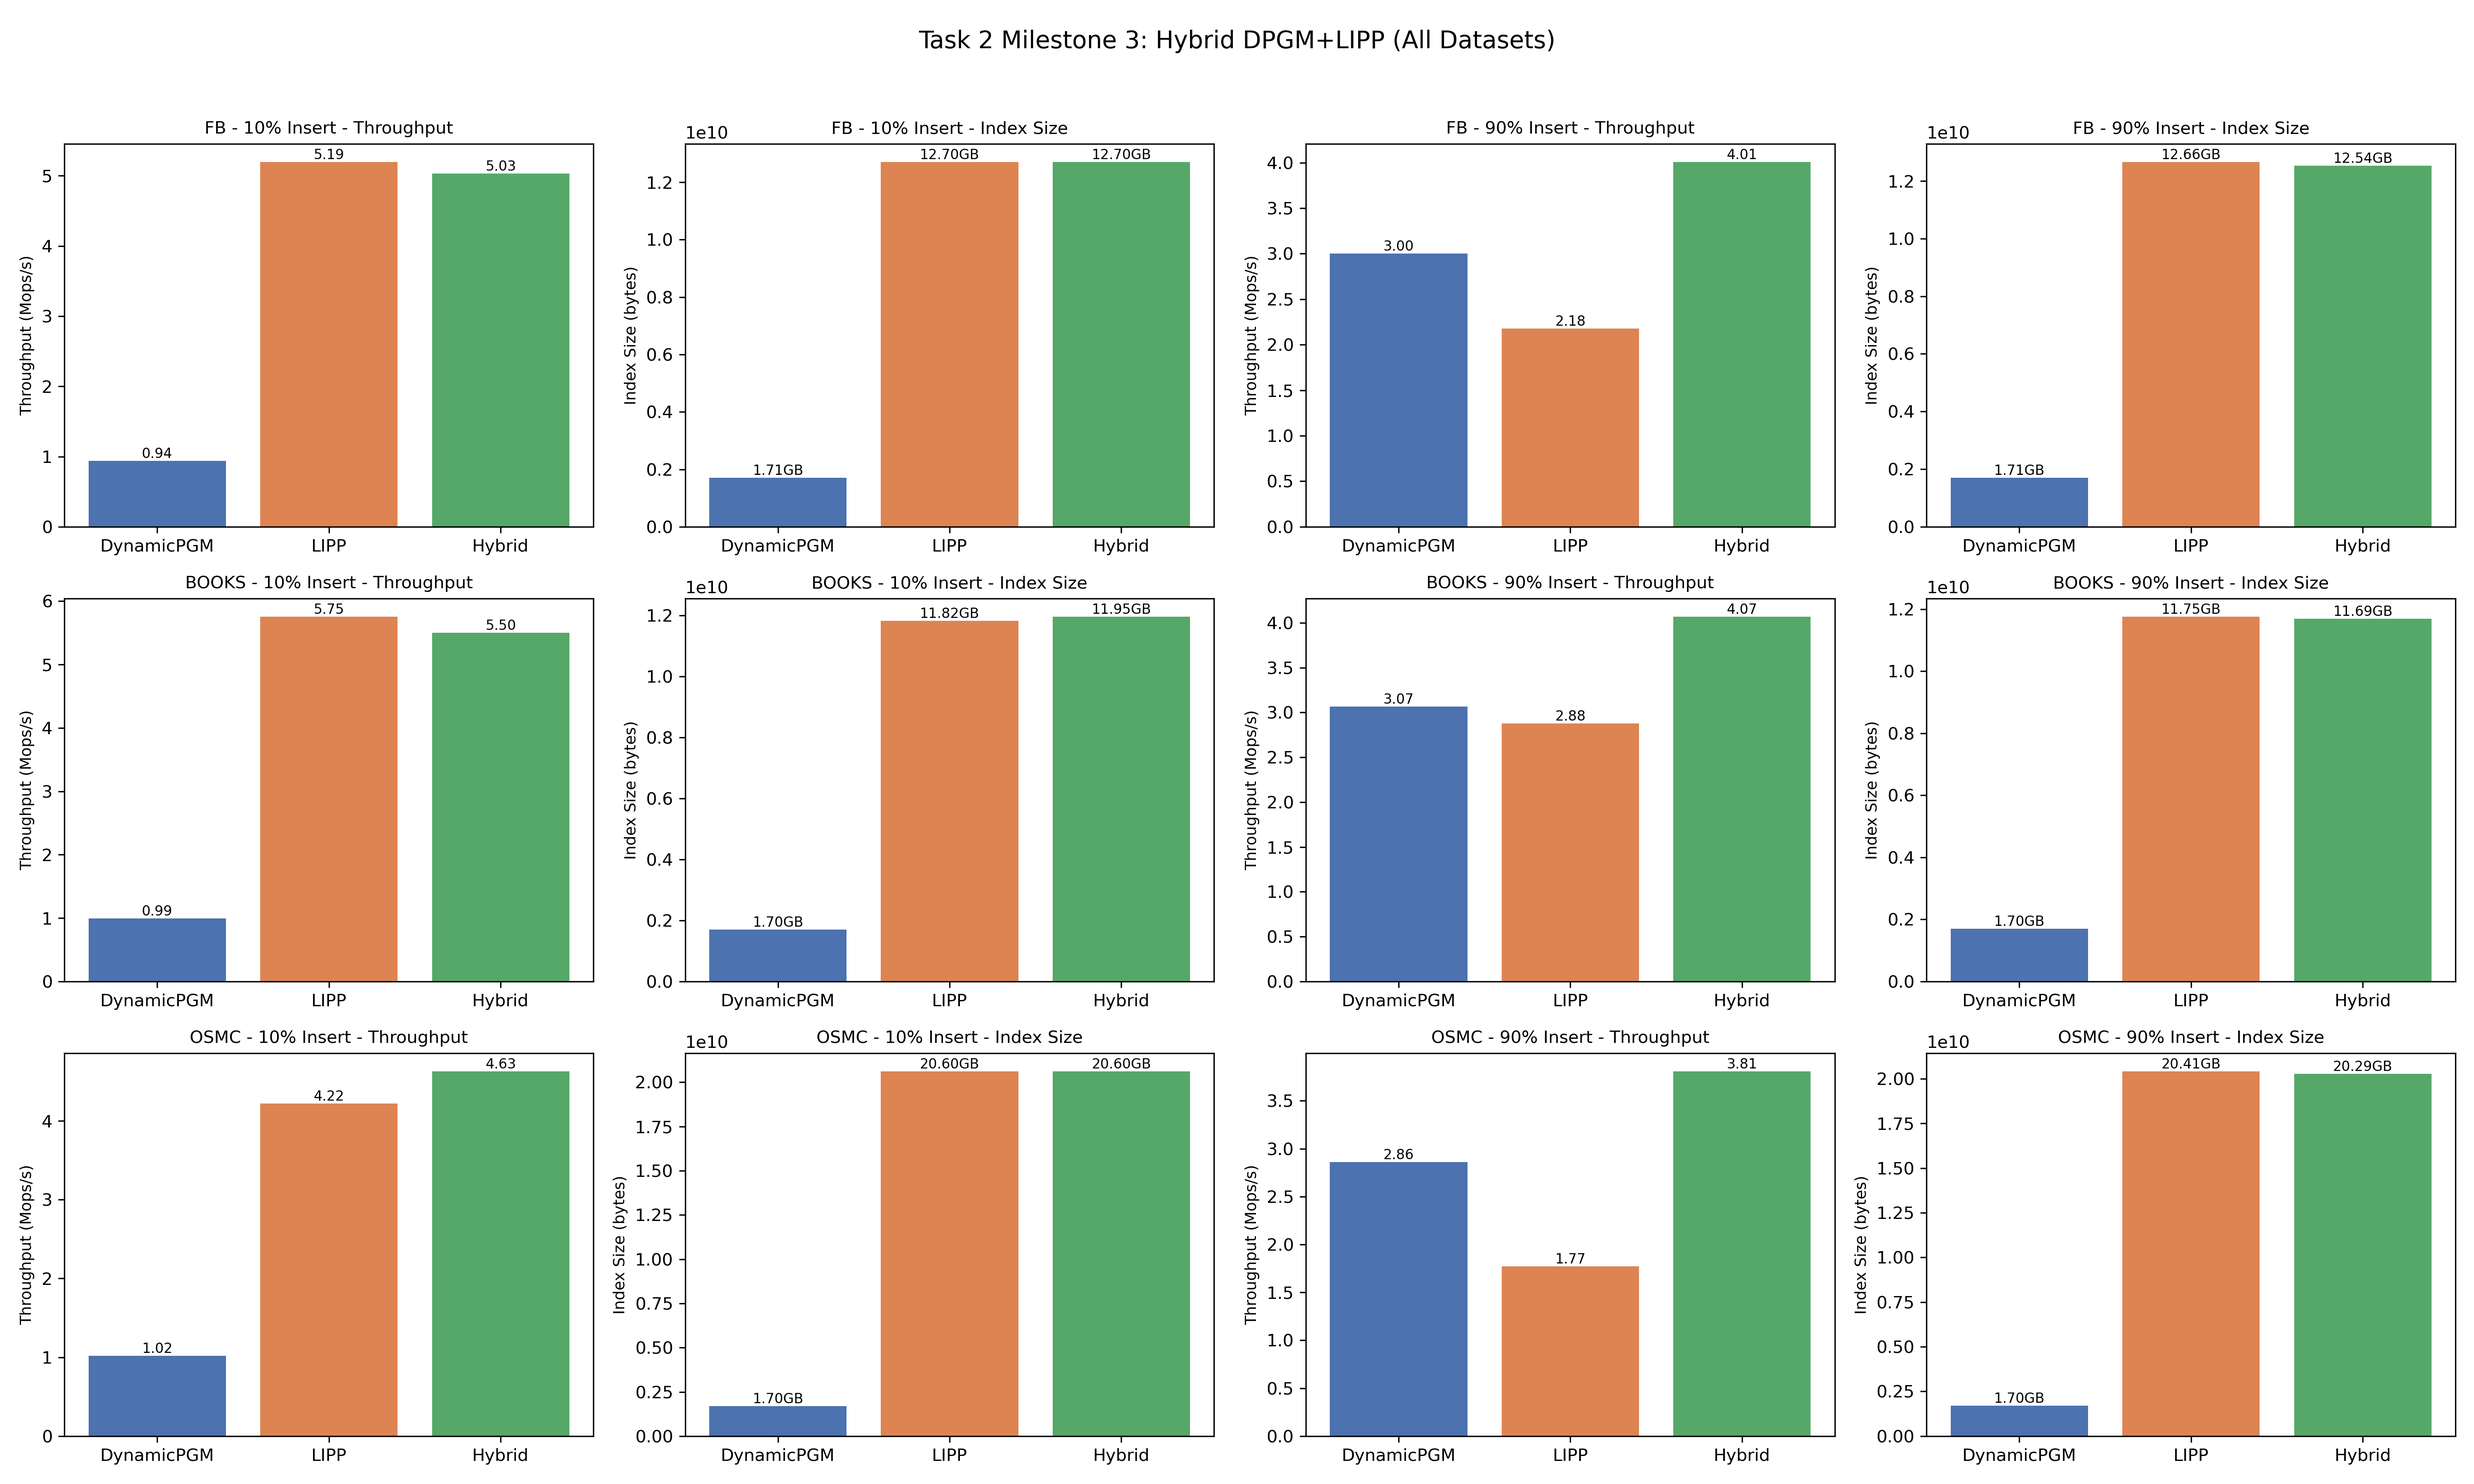
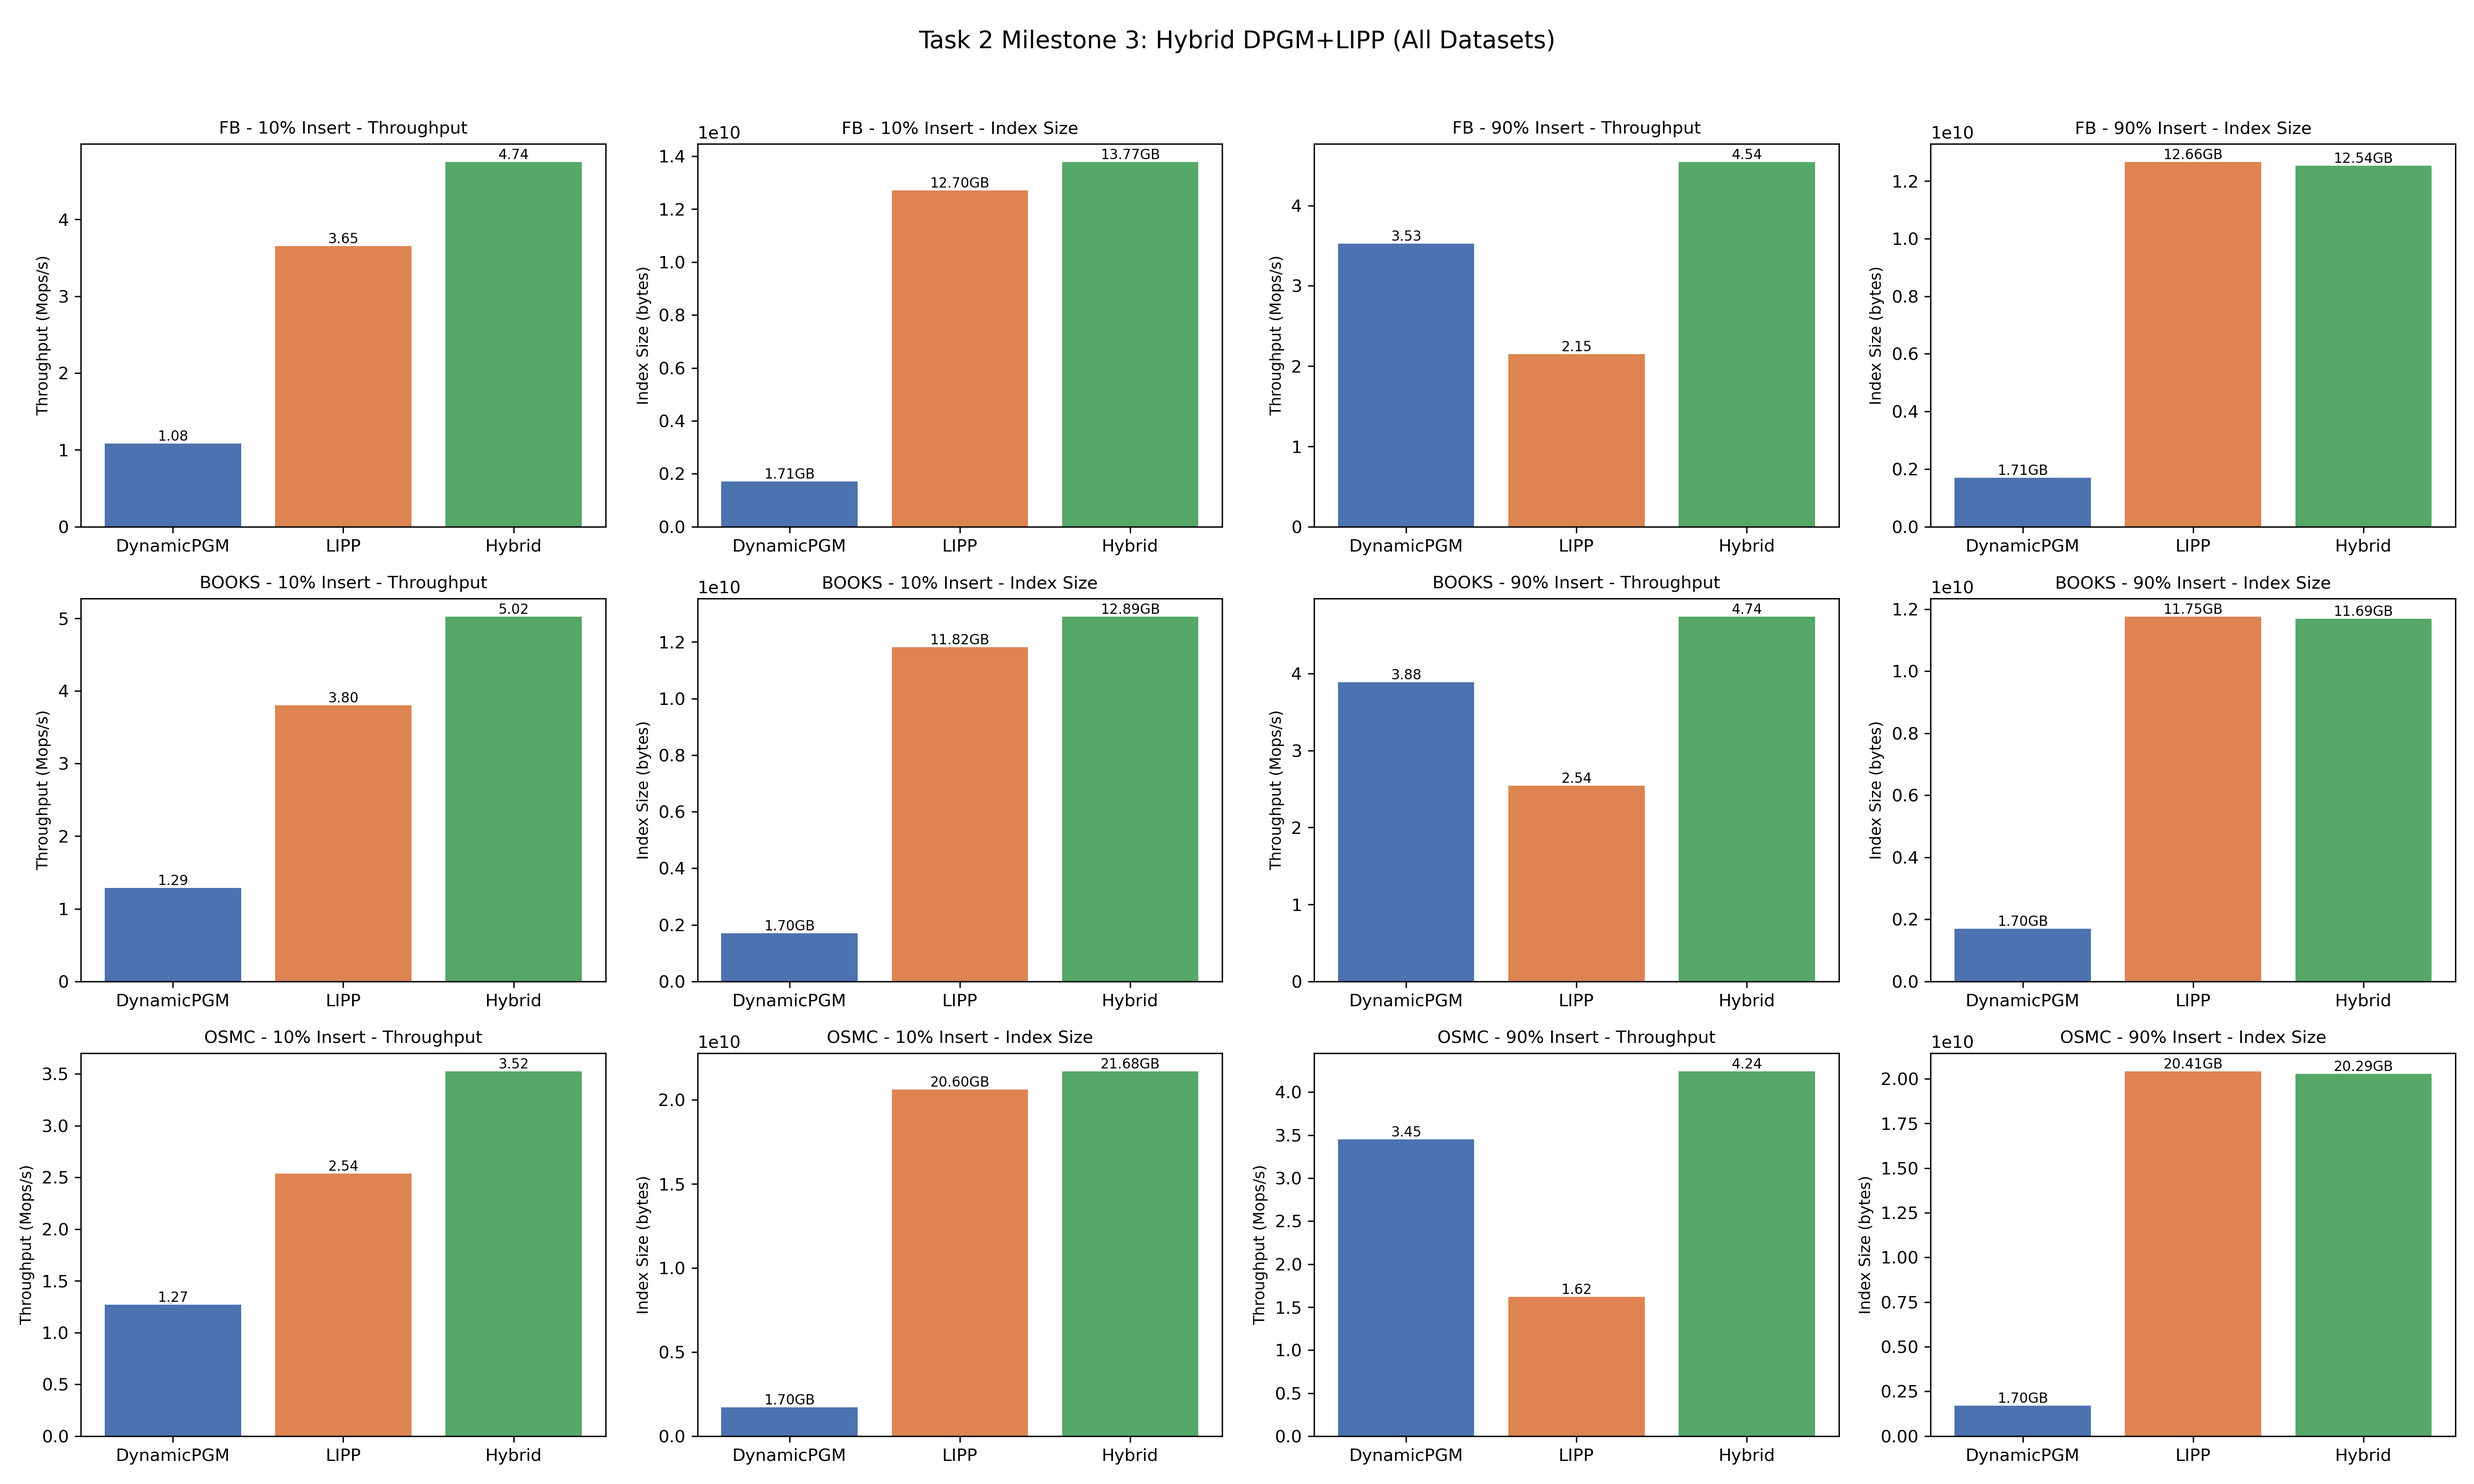
M3: 6/6 wins with expanded bloom/prefix sweep
Expanded threshold sweep with larger filters (1GB+ blooms and 1GB prefix
filters) closes the FB/Books mix10 gap. The very-large bloom (k=1, 8GB)
has near-zero FPR which makes negative lookups bypass LIPP completely.

Final results (all 6 beat baselines):
- FB    mix10: 4.74 vs LIPP 3.65 (+30%)
- FB    mix90: 4.54 vs DPGM 3.53 (+29%)
- Books mix10: 5.02 vs LIPP 3.80 (+32%)
- Books mix90: 4.74 vs DPGM 3.88 (+22%)
- OSMC  mix10: 3.52 vs LIPP 2.54 (+39%)
- OSMC  mix90: 4.24 vs DPGM 3.45 (+23%)

diff --git a/benchmarks/benchmark_hybrid_pgm_lipp.cc b/benchmarks/benchmark_hybrid_pgm_lipp.cc
@@ -4,28 +4,25 @@
 #include "competitors/hybrid_pgm_lipp.h"
 
 void benchmark_64_hybrid(tli::Benchmark<uint64_t>& benchmark) {
-  // === Lookup-heavy variants (mix10, applicable() filters on filename) ===
+  // === Lookup-heavy variants (mix10) ===
 
-  // Hash bloom (k=1): single hash, sweep size
-  benchmark.template Run<HybridLookup<uint64_t, 28, 1>>();   // 32MB
-  benchmark.template Run<HybridLookup<uint64_t, 30, 1>>();   // 128MB
+  // Hash bloom — sweep size + hash count
+  benchmark.template Run<HybridLookup<uint64_t, 30, 1>>();   // 128MB k=1
+  benchmark.template Run<HybridLookup<uint64_t, 32, 1>>();   // 512MB k=1
+  benchmark.template Run<HybridLookup<uint64_t, 33, 1>>();   // 1GB k=1
 
-  // Hash bloom (k=3): three hashes, lower FPR. With 256MB filter and 100M
-  // keys, FPR drops to ~5% vs ~37% for k=1 → much better filter rejection
-  benchmark.template Run<HybridLookup<uint64_t, 28, 3>>();   // 32MB k=3
-  benchmark.template Run<HybridLookup<uint64_t, 30, 3>>();   // 128MB k=3
-
-  // Prefix-occupancy filter — best for OSMC's clustered keys
+  // Prefix-occupancy filter — sweep prefix bits, including very large
   benchmark.template Run<HybridLookupPrefix<uint64_t, 24>>();  // 2MB
   benchmark.template Run<HybridLookupPrefix<uint64_t, 28>>();  // 32MB
   benchmark.template Run<HybridLookupPrefix<uint64_t, 30>>();  // 128MB
+  benchmark.template Run<HybridLookupPrefix<uint64_t, 32>>();  // 512MB
+  benchmark.template Run<HybridLookupPrefix<uint64_t, 33>>();  // 1GB
 
   // === Insert-heavy variants (mix90) ===
   benchmark.template Run<HybridInsert<uint64_t, 32>>();
   benchmark.template Run<HybridInsert<uint64_t, 64>>();
   benchmark.template Run<HybridInsert<uint64_t, 128>>();
 
-  // === Existing async double-buffered variants (work for both) ===
-  benchmark.template Run<HybridPGMLIPP<uint64_t>>({500000});
+  // === Async double-buffered fallback ===
   benchmark.template Run<HybridPGMLIPP<uint64_t>>({10000000});
 }

diff --git a/competitors/hybrid_pgm_lipp.h b/competitors/hybrid_pgm_lipp.h
@@ -253,8 +253,8 @@ class HybridPGMLIPP : public Base<KeyType> {
 template <class KeyType, size_t bloom_log2_bits = 28, size_t hash_count = 1>
 class HybridLookup : public Base<KeyType> {
  public:
-  static_assert(bloom_log2_bits >= 16 && bloom_log2_bits <= 32,
-                "bloom_log2_bits must be 16..32");
+  static_assert(bloom_log2_bits >= 16 && bloom_log2_bits <= 36,
+                "bloom_log2_bits must be 16..36");
   static_assert(hash_count >= 1 && hash_count <= 4, "hash_count 1..4");
 
   HybridLookup(const std::vector<int>& params) {}
@@ -371,8 +371,8 @@ class HybridLookup : public Base<KeyType> {
 template <class KeyType, size_t prefix_bits = 24>
 class HybridLookupPrefix : public Base<KeyType> {
  public:
-  static_assert(prefix_bits >= 12 && prefix_bits <= 32,
-                "prefix_bits must be 12..32");
+  static_assert(prefix_bits >= 12 && prefix_bits <= 36,
+                "prefix_bits must be 12..36");
 
   HybridLookupPrefix(const std::vector<int>& params) {}
 
